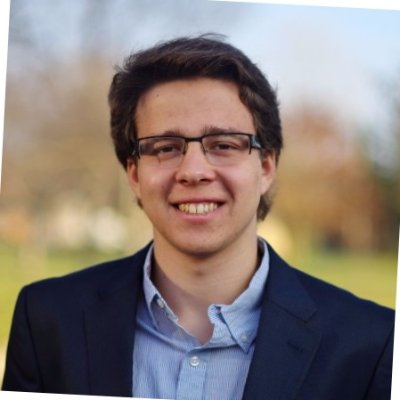
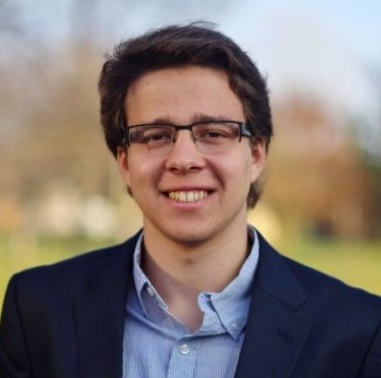
fixed sergey's headshot and copyright dates

diff --git a/recruitment.html b/recruitment.html
@@ -134,7 +134,7 @@
 
           <p>
             <b>Analytics Associate</b>
-            <br /> Responsible for building and maintaining analytics tools, like Sparkstone’s backtester and web-based analytics platform as well as constructing a robust risk engine model, assisting with testing, and maintaining the execution engine that performs live trade transactions. Team members will be exposed to a wide range of concepts, including algorithms, full stack development, databases, and data-mining. We are looking for people with a strong programming background, an exceptional ability to reason on large codebases, and an openness to learn new technologies.
+            <br /> Responsible for building and maintaining analytics tools, like Sparkstone’s backtester and web-based analytics platform as well as constructing a robust risk engine model and assisting with testing. Team members will be exposed to a wide range of concepts, including algorithms, full stack development, databases, and data-mining. We are looking for people with a strong programming background, an exceptional ability to reason on large codebases, and an openness to learn new technologies.
           </p>
 
             <br />
@@ -247,7 +247,7 @@
     <div class="container">
       <div class="row">
         <div class="bottom-footer">
-          <div class="col-md-5"> &copy; Copyright Sparkstone Analytics LLC 2016 </div>
+          <div class="col-md-5"> &copy; Copyright Sparkstone Analytics LLC 2017 </div>
         </div>
       </div>
     </div>

diff --git a/about.html b/about.html
@@ -286,7 +286,7 @@
     <div class="container">
       <div class="row">
         <div class="bottom-footer">
-          <div class="col-md-5"> &copy; Copyright Sparkstone Analytics LLC 2016 </div>
+          <div class="col-md-5"> &copy; Copyright Sparkstone Analytics LLC 2017 </div>
           <div class="col-md-7"><span class="right-align">Photos by DP Photography</span></div>
         </div>
       </div>

diff --git a/sponsors.html b/sponsors.html
@@ -179,7 +179,7 @@
       <div class="container">
         <div class="row">
           <div class="bottom-footer">
-            <div class="col-md-5"> &copy; Copyright Sparkstone Analytics LLC 2016 </div>
+            <div class="col-md-5"> &copy; Copyright Sparkstone Analytics LLC 2017 </div>
           </div>
         </div>
       </div>

diff --git a/home.html b/home.html
@@ -125,7 +125,7 @@
     <div class="container">
       <div class="row">
         <div class="bottom-footer">
-          <div class="col-md-5"> &copy; Copyright Sparkstone Analytics LLC 2016 </div>
+          <div class="col-md-5"> &copy; Copyright Sparkstone Analytics LLC 2017 </div>
         </div>
       </div>
     </div>

diff --git a/registration.html b/registration.html
@@ -314,7 +314,7 @@
     <div class="container">
       <div class="row">
         <div class="bottom-footer">
-          <div class="col-md-5"> &copy; Copyright Sparkstone Analytics LLC 2016 </div>
+          <div class="col-md-5"> &copy; Copyright Sparkstone Analytics LLC 2017 </div>
         </div>
       </div>
     </div>
